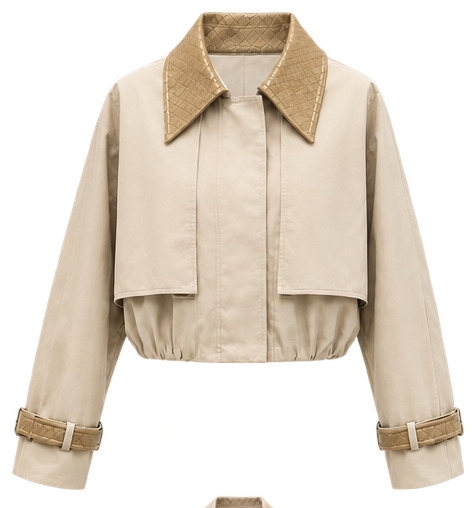
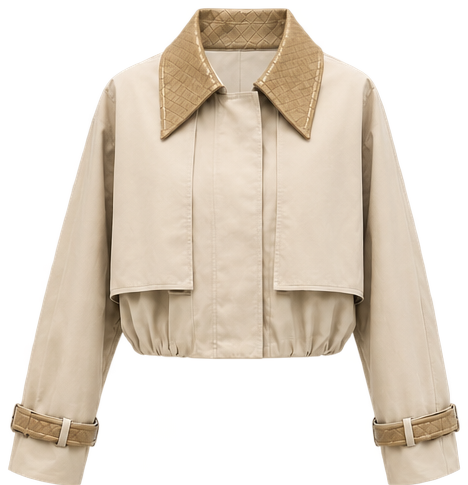
Use cutout image for veste col cuir, fix bleed on croco cutout
Swapped the middle card of row 1 (veste courte col cuir) from its
studio JPG to the matching cutout from the transparent-background
composite, same treatment as row 2. Also re-cropped that cutout and
the veste col croco one to drop a sliver of the neighboring garment
that had bled into the bottom edge of both crops.

Claude-Session: https://claude.ai/code/session_015r4edGBA7MqmUutWqT53ds

diff --git a/assets/js/products-data.js b/assets/js/products-data.js
@@ -31,7 +31,8 @@ const PRODUCTS = [
       "Poches passepoilées",
       "Poignets boutonnés ajustables",
     ],
-    images: ["assets/img/products/veste-cuir-marron-01.jpg"],
+    images: ["assets/img/products/veste-cuir-marron-01.png"],
+    fit: "contain",
   },
   {
     id: "trench-beige",
